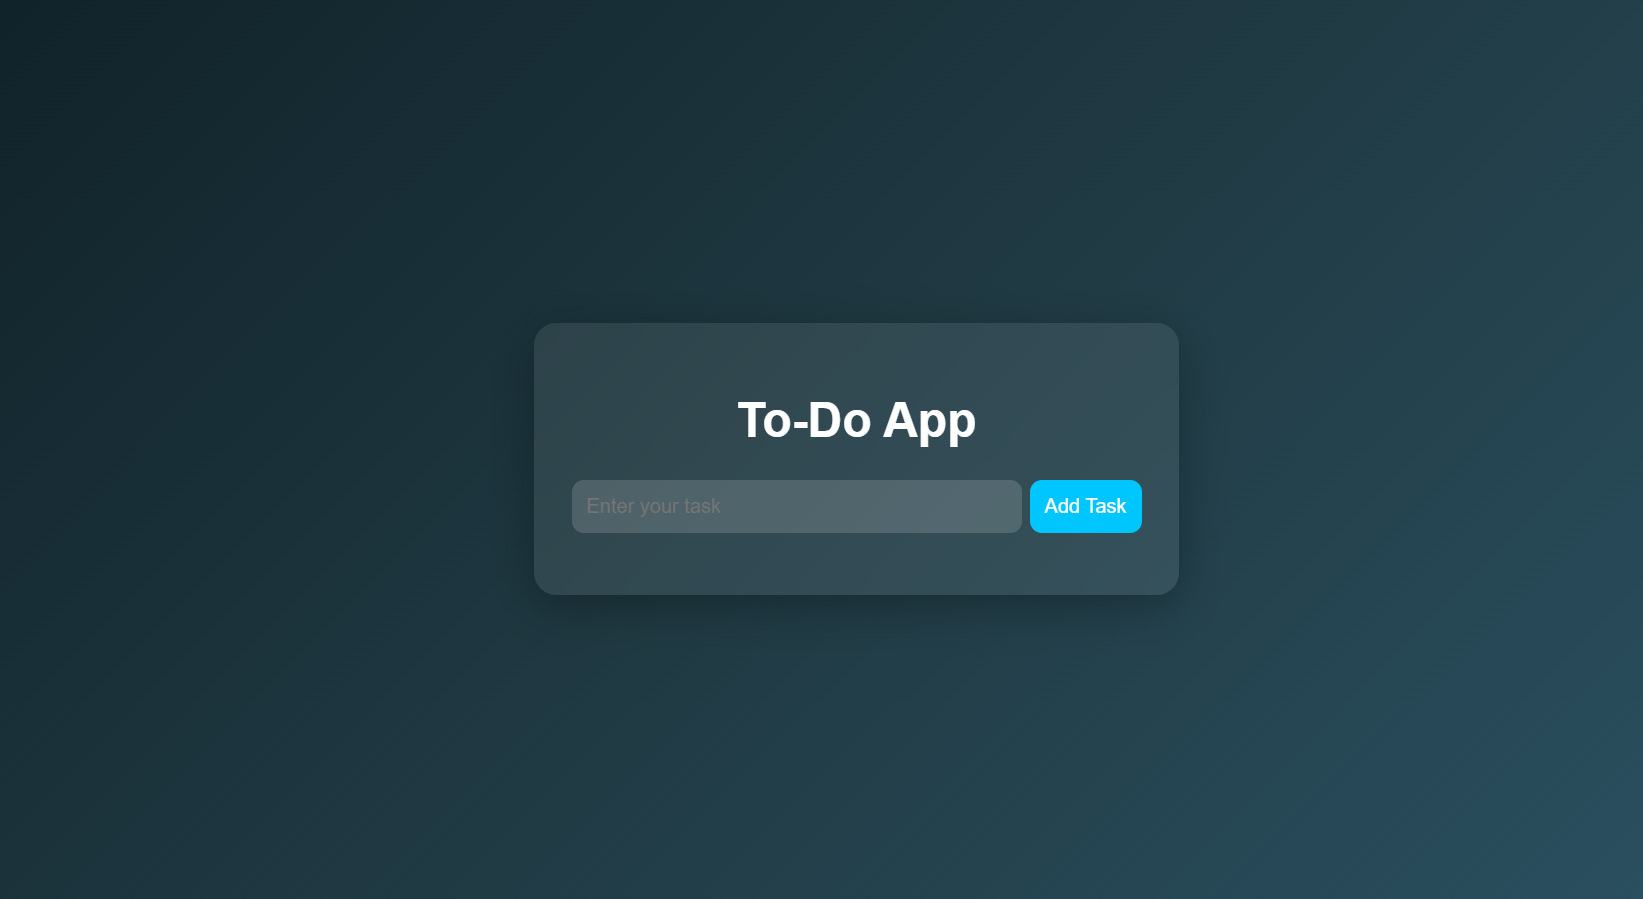
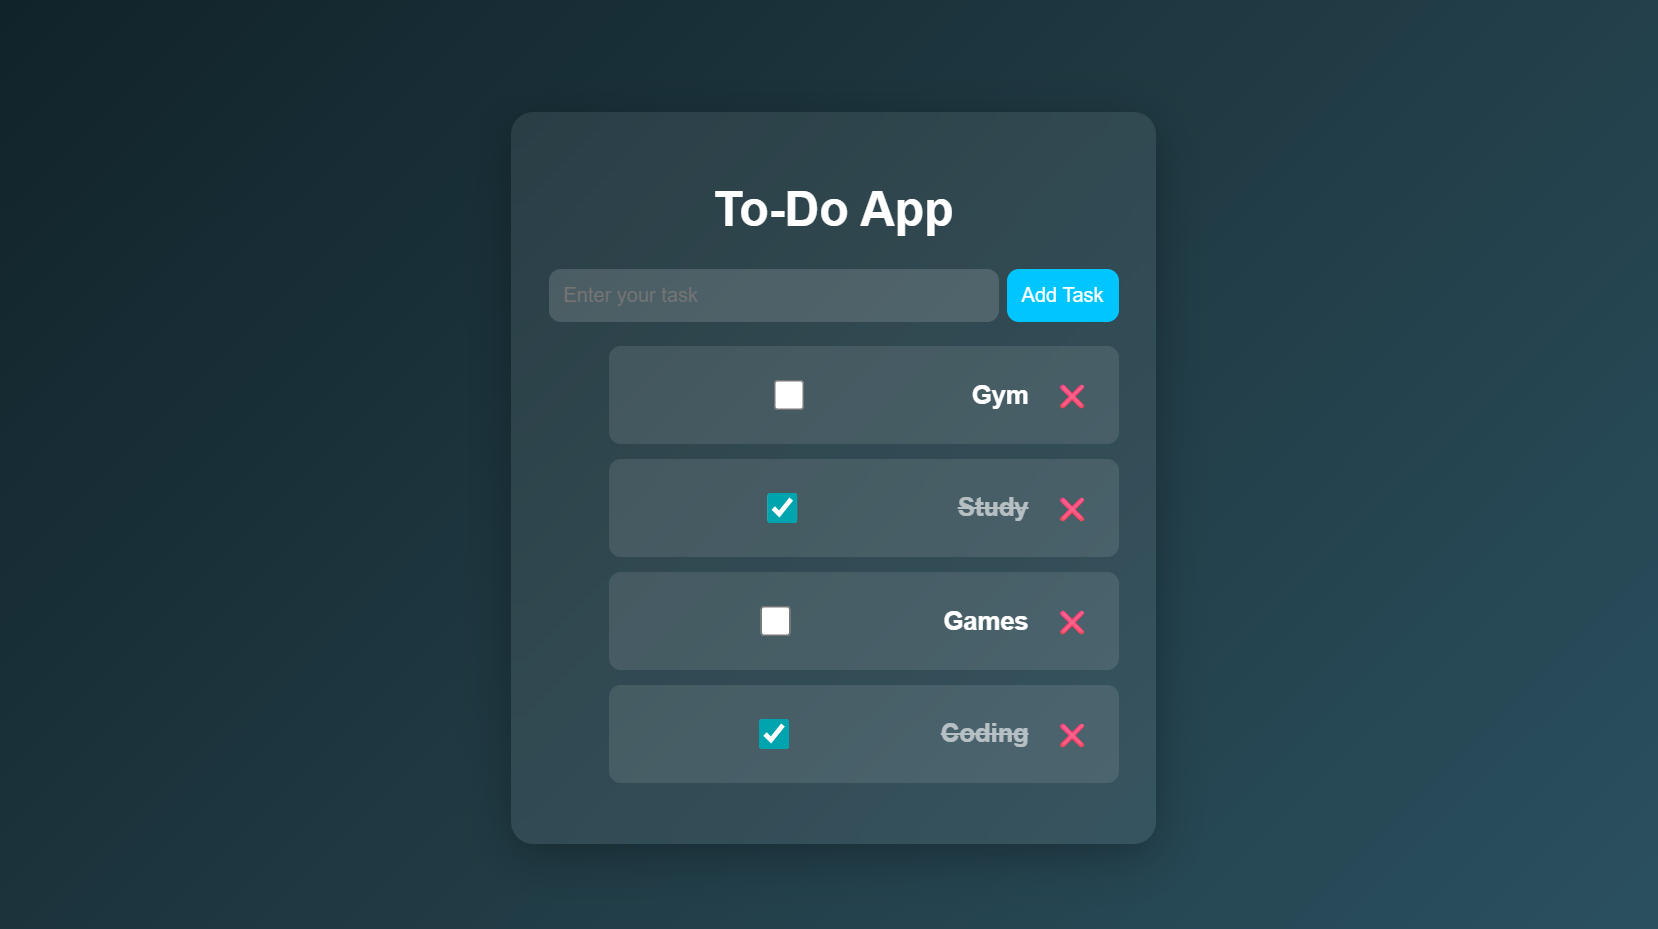
changes

diff --git a/style.css b/style.css
@@ -59,18 +59,49 @@ button:hover {
 li {
     display: flex;
     align-items: center;
-    justify-content: space-between;
+    gap: 8px; /* tight spacing between checkbox & text */
     margin: 10px 0;
-    padding: 10px;
+    padding: 12px 10px 12px 6px; /* 🔥 reduced left padding */
     border-radius: 8px;
     background: rgba(255,255,255,0.1);
+    transition: 0.2s;
 }
 
-/* spacing */
+/* hover effect */
+li:hover {
+    background: rgba(255,255,255,0.18);
+}
+
+/* checkbox */
+li input[type="checkbox"] {
+    width: 20px;
+    height: 20px;
+    cursor: pointer;
+}
+
+/* task text */
 .task-text {
-    margin-left: 10px;
+    font-size: 17px;
+    font-weight: bold;
+    color: #ffffff;
 }
 
+/* completed task */
+.task-text[style*="line-through"] {
+    opacity: 0.6;
+}
+
+/* delete button */
 .delete-btn {
-    margin-left: 10px;
+    margin-left: auto;
+    border: none;
+    background: transparent;
+    color: #ff4d4d;
+    font-size: 16px;
+    cursor: pointer;
+    transition: 0.2s;
+}
+
+.delete-btn:hover {
+    transform: scale(1.2);
 }

diff --git a/README.md b/README.md
@@ -11,7 +11,6 @@ This app helps users manage daily tasks efficiently with persistent storage usin
 ---
 
 ## 📸 Preview
-<<<<<<< HEAD
 ![App Screenshot]([screenshot.png](https://github.com/Dadapeer-source/HexSoftwares_To-do-App/blob/main/images/Screenshot%202026-02-24%20154342.png))
 =======
 ![App Screenshot](images/screenshot.png)
